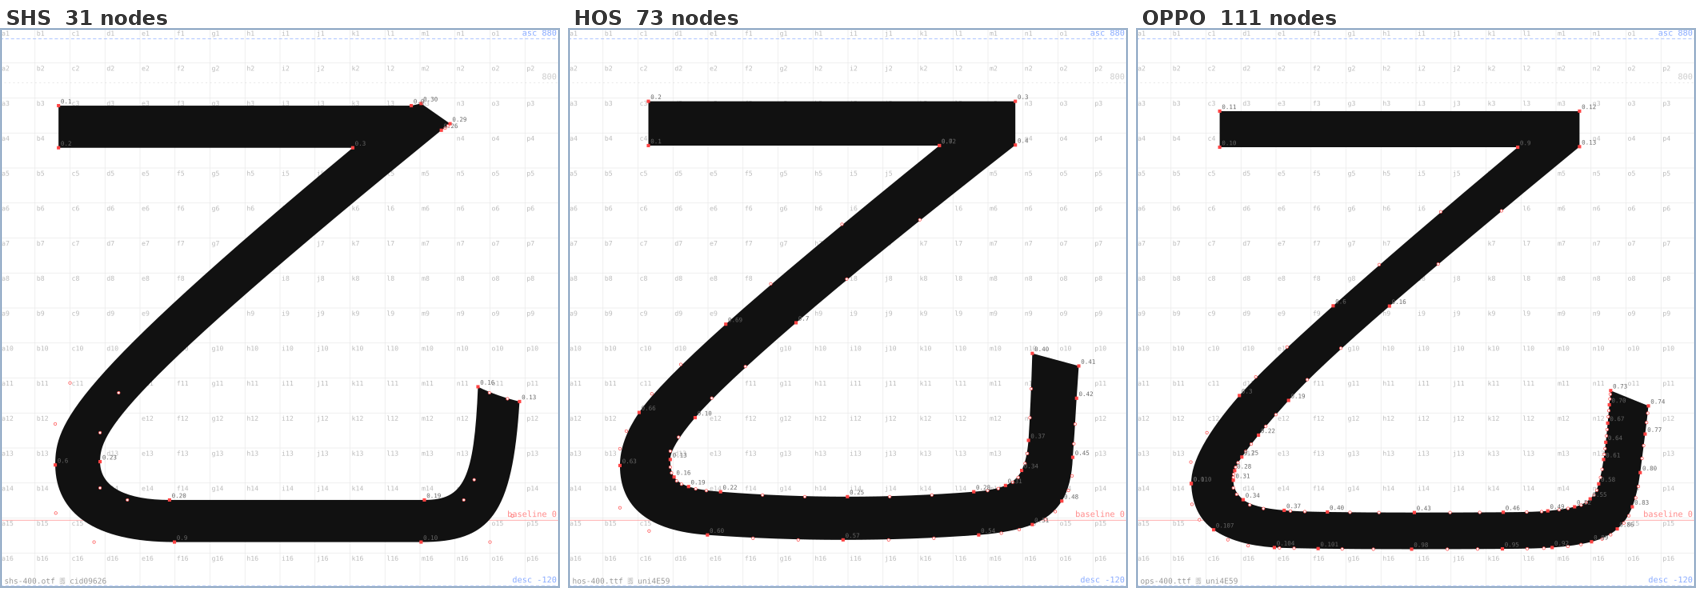
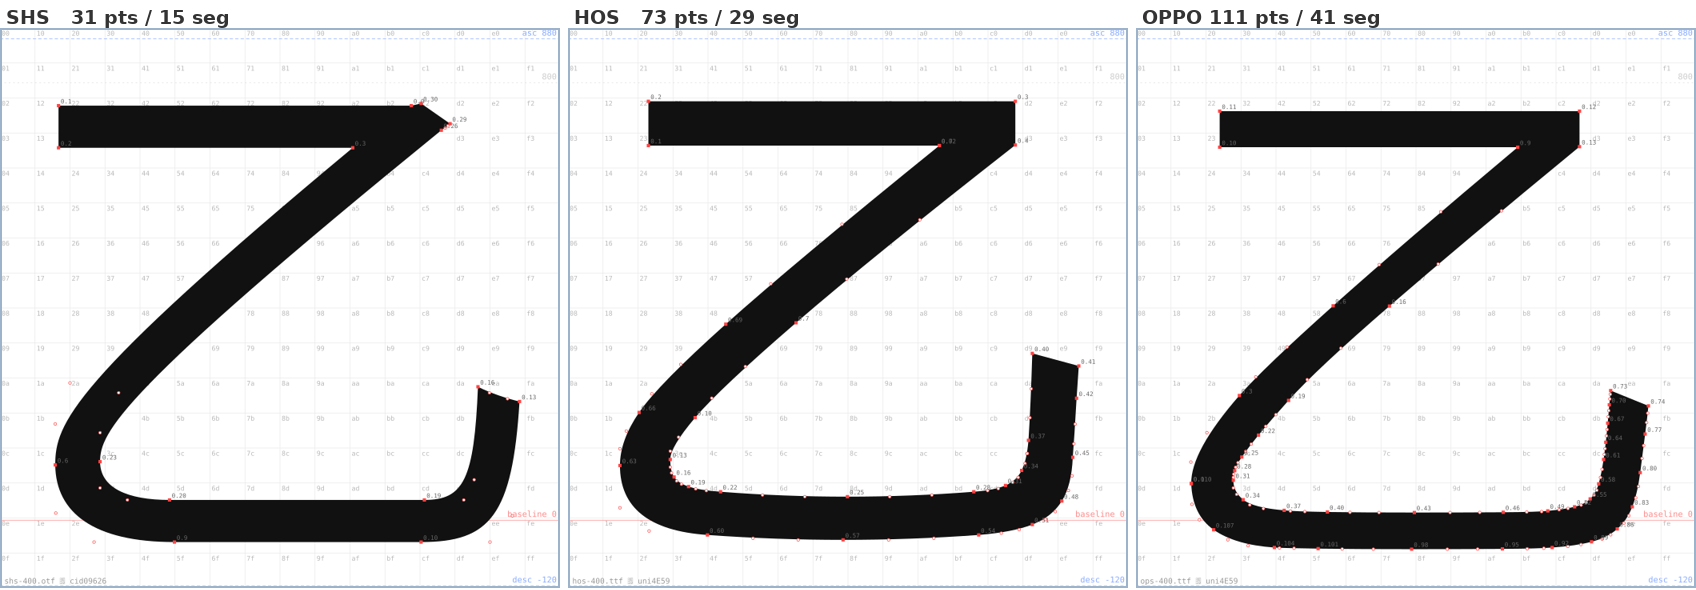
修 glyph_svg 格号未同步十六进制；统一节点统计口径
- glyph_svg 还在用 a-p / 1-16，与 glyph_view 的 00-ff 不一致，已改
- 节点数统一为源轮廓点数（on+off）：乙 31/73/111，八合计 373/676/986
- 此前文档混用了三种口径（命令数 189/294/398、点数、展平点数），已清理

Changed region(s): [[0.6875, 0.0, 0.8125, 0.061], [0.3438, 0.0, 0.4688, 0.061], [0.0, 0.0, 0.1562, 0.061]]

diff --git a/tools/glyph_svg.py b/tools/glyph_svg.py
@@ -29,6 +29,8 @@ X_EM_MIN, X_EM_MAX = -12.0, 1012.0
 Y_EM_MIN, Y_EM_MAX = -124.0, 900.0
 GRID = 16
 CELL = SIZE / GRID          # 64 px
+HEX = "0123456789abcdef"
+HEX = "0123456789abcdef"   # 格位 = 十六进制：列在前，行在后（与 glyph_view 一致）
 
 
 def px(x, y):
@@ -136,7 +138,8 @@ def build_svg(contours, path_d, grid=True, refs=True, points=False, title=""):
         for ri in range(GRID):
             for ci in range(GRID):
                 out.append(f'<text x="{ci*CELL+3:.0f}" y="{ri*CELL+14:.0f}" '
-                           f'font-size="12">{chr(ord("a")+ci)}{ri+1}</text>')
+                           f'font-size="12" fill="#b8b8b8">'
+                           f'{HEX[ci]}{HEX[ri]}</text>')
         out.append("</g>")
 
     if refs:

diff --git a/docs/ABSORB.md b/docs/ABSORB.md
@@ -97,21 +97,22 @@
 
 ## 五、弯钩才是差异所在
 
-`乙尤九也心飞气乞` 八个弯钩类字的**曲线指令数**（源轮廓节点，非展平点数）：
+`乙尤九也心飞气乞` 八个弯钩类字的**源轮廓点数**（on-curve + off-curve 控制点，
+即 `glyph_svg --points` 标出来的那些点）：
 
 | 字 | shs | hos | ops |
 |---|---|---|---|
-| 乙 | **15** | 29 | 41 |
-| 尤 | 29 | 48 | 52 |
-| 九 | 21 | 34 | 48 |
-| 也 | 37 | 47 | 69 |
-| 心 | 26 | 41 | 53 |
-| 飞 | 16 | 28 | 45 |
-| 气 | 22 | 30 | 40 |
-| 乞 | 23 | 37 | 50 |
-| **合计** | **189** | **294** | **398** |
+| 乙 | **31** | 73 | 111 |
+| 尤 | 57 | 110 | 122 |
+| 九 | 45 | 78 | 120 |
+| 也 | 65 | 101 | 167 |
+| 心 | 52 | 103 | 137 |
+| 飞 | 36 | 64 | 117 |
+| 气 | 40 | 58 | 90 |
+| 乞 | 47 | 89 | 122 |
+| **合计** | **373** | **676** | **986** |
 
-OPPO 是思源的 **2.1 倍**。
+段数（绘制命令）：189 / 294 / 398。OPPO 点数是思源的 **2.6 倍**，段数 2.1 倍。
 
 ![乙字节点对照](img/bend-nodes.png)
 
